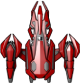
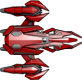
add vectors for bullets speed

diff --git a/game/starships.py b/game/starships.py
@@ -4,15 +4,15 @@ from pygame.sprite import Sprite
 from pygame.math import Vector2 as V2
 
 from config import screen_width, screen_heigth
-from tools import load_image, unscale_image
+from tools import load_image, unscale_image, rot_center
 from bullet import Bullet
 
 
 class StarShip(Sprite):
-    def __init__(self, x, y, image, group):
+    def __init__(self, x, y, image, angle, group):
         super().__init__()
         self.vel = V2()
-        self.image = load_image(image)
+        self.image = rot_center(load_image(image), angle)
         self.rect = self.image.get_rect(center=(x, y))
         self.health = 100
         self.speed = 7
@@ -22,7 +22,8 @@ class StarShip(Sprite):
         self.bullets = pygame.sprite.Group()
         self.bullet_pos_x = 0
         self.bullet_pos_y = 45
-        self.bullet_speed = None
+        self.bullet_speed = V2(15, 0)
+        self.bullet_speed.rotate_ip(-angle)
         self.bullet_damage = None
         self.fire_pace = 0.15
         self.fire_flag = 0
@@ -65,25 +66,31 @@ class StarShip(Sprite):
         fire_time = time()
         if fire_time - self.fire_flag > self.fire_pace:
             self.fire_flag = fire_time
-            return Bullet(self.rect.centerx+self.bullet_pos_x, self.rect.centery+self.bullet_pos_y, self.bullets, self.bullet_damage, self.bullet_speed)
+            return Bullet(
+                self.rect.centerx + self.bullet_pos_x,
+                self.rect.centery + self.bullet_pos_y,
+                self.bullets,
+                self.bullet_speed,
+                self.bullet_damage,
+            )
 
 
 class HeroStarShip(StarShip):
-    def __init__(self, x, y, image, group):
-        super().__init__(x, y, image, group)
+    def __init__(self, x, y, image, angle, group):
+        super().__init__(x, y, image, angle, group)
 
         self.bullet_pos_y = -45
-        self.bullet_speed = 15
+        self.bullet_speed.scale_to_length(15)
         self.bullet_damage = 10
 
 
 x_direction = 1
 class EnemyStarShip(StarShip):
-    def __init__(self, x, y, image, group):
-        super().__init__(x, y, image, group)
+    def __init__(self, x, y, image, angle, group):
+        super().__init__(x, y, image, angle, group)
         self.speed = 3
 
-        self.bullet_speed = 7
+        self.bullet_speed.scale_to_length(7)
         self.bullet_damage = 5
         self.fire_pace = 1
 

diff --git a/game/bullet.py b/game/bullet.py
@@ -1,12 +1,13 @@
 import pygame
 from pygame.sprite import Sprite
+from pygame.math import Vector2 as V2
 
 from config import screen_width, screen_heigth
 from tools import load_image
 
 
 class Bullet(Sprite):
-    def __init__(self, x, y, group, damage=10, speed=15):
+    def __init__(self, x, y, group, speed: V2, damage=10):
         super().__init__()
         self.x = x
         self.y = y
@@ -16,8 +17,8 @@ class Bullet(Sprite):
         self.rect = self.image.get_rect(center=(self.x, self.y))
         self.add(group)
 
-    def update(self, updirection=1):
+    def update(self):
         if 0 < self.rect.centery < screen_heigth:
-            self.rect.centery += self.speed * updirection
+            self.rect.centery += self.speed.y
         else:
             self.kill()

diff --git a/game/tools.py b/game/tools.py
@@ -1,6 +1,5 @@
 from pygame.image import load
-from pygame.transform import scale
-from pygame import image
+from pygame import transform
 
 
 def load_image(filename, with_alpha=True):
@@ -12,5 +11,11 @@ def load_image(filename, with_alpha=True):
     else:
         return image.convert()
 
+
 def unscale_image(image, n):
-    return scale(image, (image.get_width() // n, image.get_height() // n)).convert_alpha()
+    return transform.scale(image, (image.get_width() // n, image.get_height() // n)).convert_alpha()
+
+
+def rot_center(image, angle):
+    image = transform.rotate(image, angle)
+    return image

diff --git a/game/spacegame.py b/game/spacegame.py
@@ -19,8 +19,8 @@ clock = pygame.time.Clock()
 FLYING_STAR = pygame.event.custom_type()
 pygame.time.set_timer(FLYING_STAR, 70)
 
-hero = HeroStarShip(screen_width // 2, screen_heigth - 100, 'icon.png', heroes)
-enemy = EnemyStarShip(screen_width // 2, 100, 'enemy.png', enemies)
+hero = HeroStarShip(screen_width // 2, screen_heigth - 100, 'icon.png', 90, heroes)
+enemy = EnemyStarShip(screen_width // 2, 100, 'enemy.png', -90, enemies)
 
 pygame.mouse.set_visible(mouse_visible)
 
